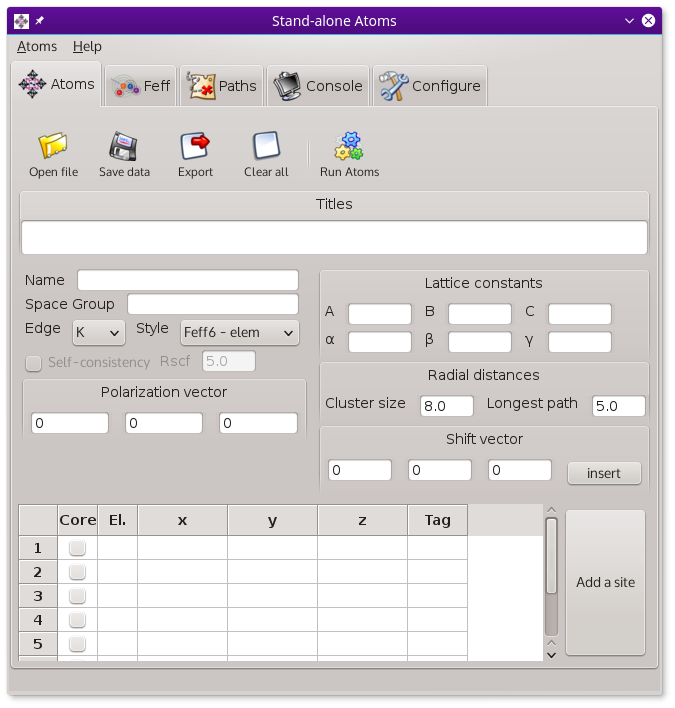
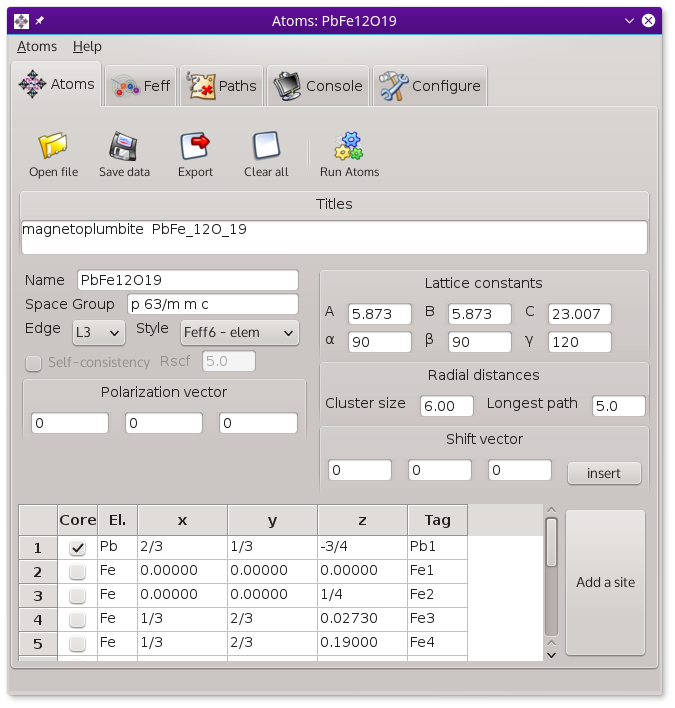
document stand-alone atoms

diff --git a/documentation/Artemis/feff/standalone.rst b/documentation/Artemis/feff/standalone.rst
@@ -7,4 +7,46 @@ The stand-alone Atoms application
 =================================
 
 :demeter:`atoms` can be run as a stand-alone application separate from
-:demeter:`artemis`
+:demeter:`artemis`.  On Windows, there is a menu in the Start Menu
+labeled "Demeter with Strawberry Perl".  In that menu is an item
+labeled "Stand-alone Atoms".  Selecting that will start the
+:demeter:`atoms` application.  By default, no desktop icon is made for
+the stand-alone version of :demeter:`atoms`, but you can drag-and-drop
+a shortcut from the Start Menu to the desktop.
+
+:demeter:`atoms` can be launched from the command line on any
+platform.  This command will read from a named CIF file and write the
+output :demeter:`feff` file to :file:`myfeff.inp`.
+
+.. code-block:: bash
+
+   datoms myxtal.cif -o myfeff.inp
+
+You can launch the stand-alone GUI application with
+
+.. code-block:: bash
+
+   datoms --wx
+
+
+.. _fig-standaloneatoms:
+.. figure:: ../../_images/atoms_standalone.png
+   :target: ../_images/atoms_standalone.png
+   :align: center
+
+   The stand-alone :demeter:`atoms` application.
+
+
+As a stand-alone application, :demeter:`atoms` is very similar in
+appearance and functionality to the :demeter:`atoms` window in
+:demeter:`artemis`.  There are a few small differences:
+
+#. There is a :guilabel:`Configuration` tab which contains a tool very
+   similar to :demeter:`artemis`'s `configuration tool
+   <../prefs.html>`_.
+
+#. The :guilabel:`Path-like` tab is absent.  Without a fitting
+   project on which to drag-and-drop the path-like objects, the
+   content of that tab is not so useful
+
+#. The stand-alone app has its own menu bar.

diff --git a/documentation/Artemis/feff/index.rst b/documentation/Artemis/feff/index.rst
@@ -6,8 +6,6 @@
 The Atoms and Feff Window
 =========================
 
-.. todo:: Reorganize content so that table of contents makes sense.
-
 
 When you import crystal data from an :file:`atoms.inp` or CIF file,
 three things happen:
@@ -119,5 +117,5 @@ later section <../feff/aggregate.html>`__
    pathlike.rst
    console.rst
    aggregate.rst
-
+   standalone.rst
 
